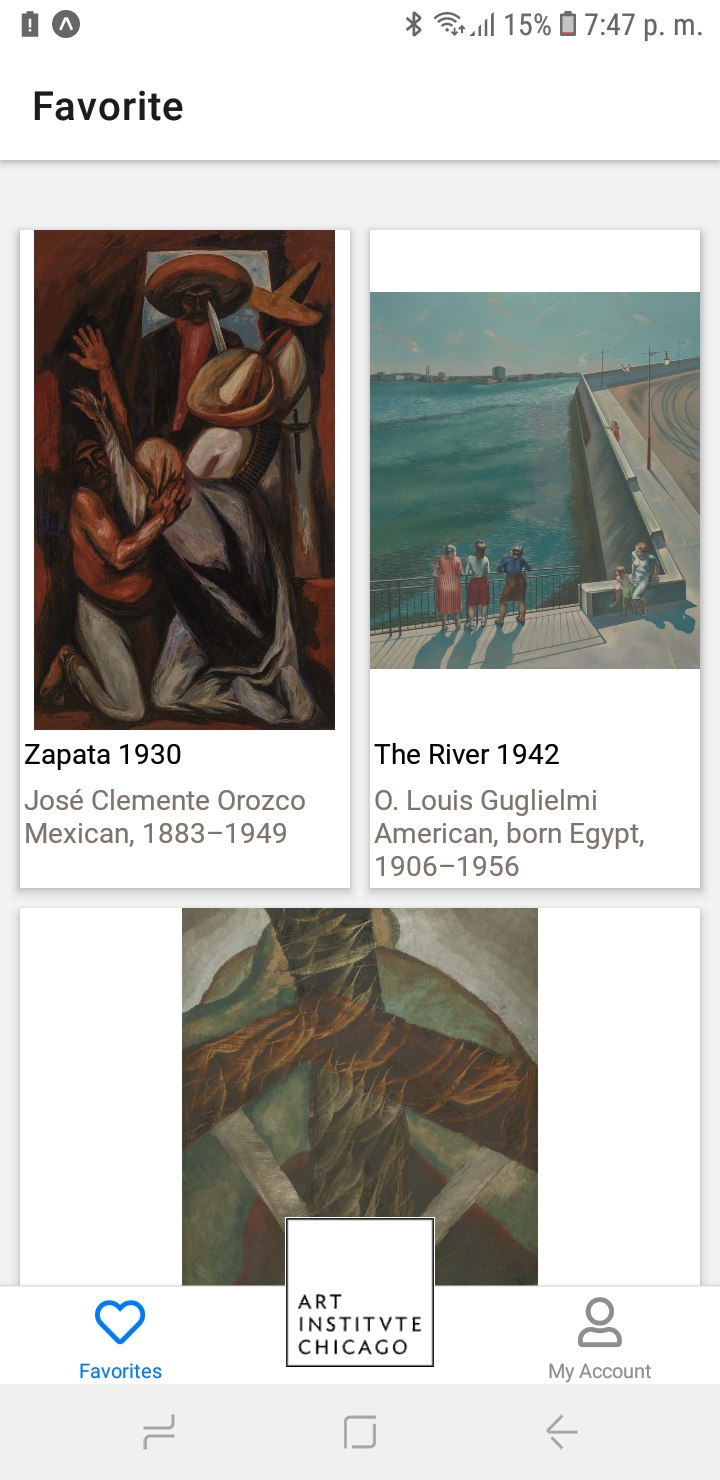
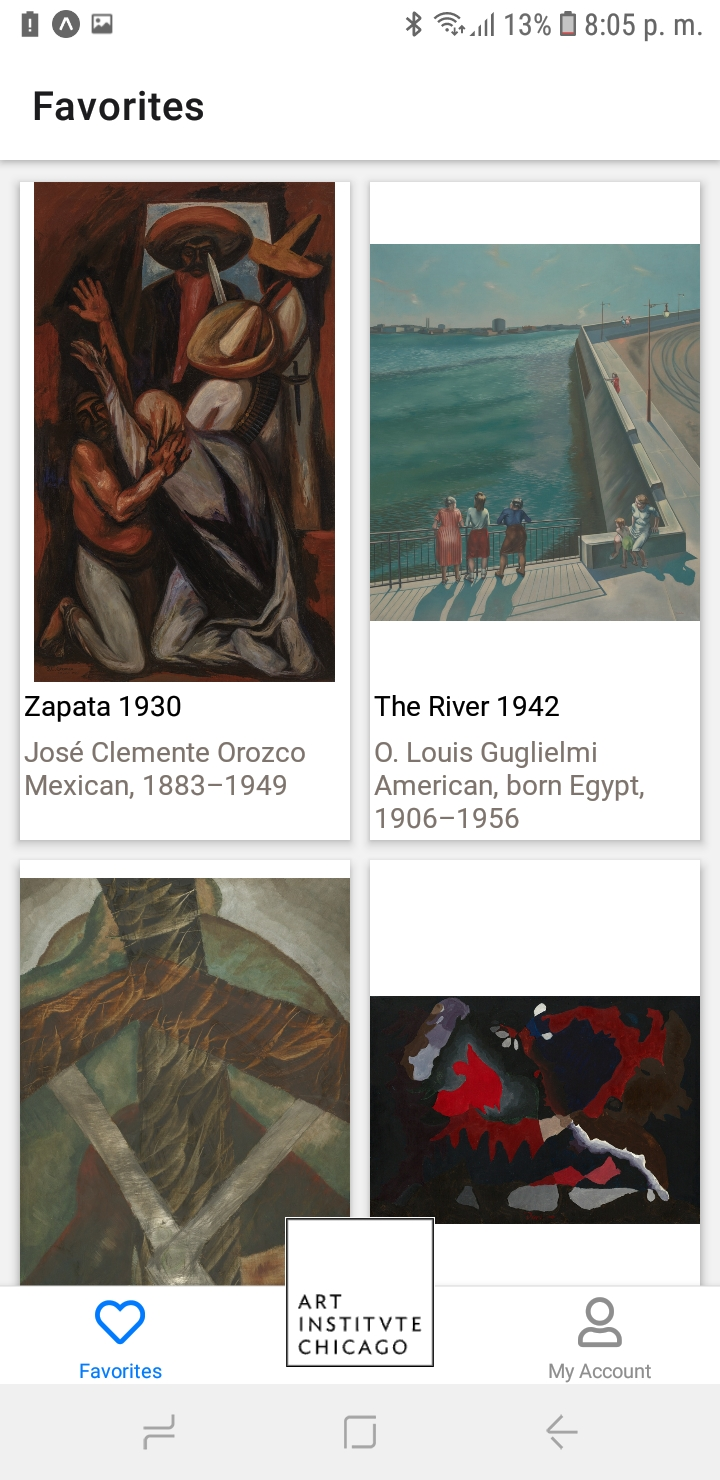
fix: typo

diff --git a/src/navigation/FavoritesNavigation.js b/src/navigation/FavoritesNavigation.js
@@ -8,7 +8,7 @@ const Stack = createNativeStackNavigator();
 export default function FavoriteNavigation() {
     return (
         <Stack.Navigator >
-            <Stack.Screen name="Favorite" component={FavoriteScreen} />
+            <Stack.Screen name="Favorites" component={FavoriteScreen} />
             <Stack.Screen name="Artwork" component={ArtworkScreen} options={{ title: "", headerTransparent: true }} />
         </Stack.Navigator>
     )
